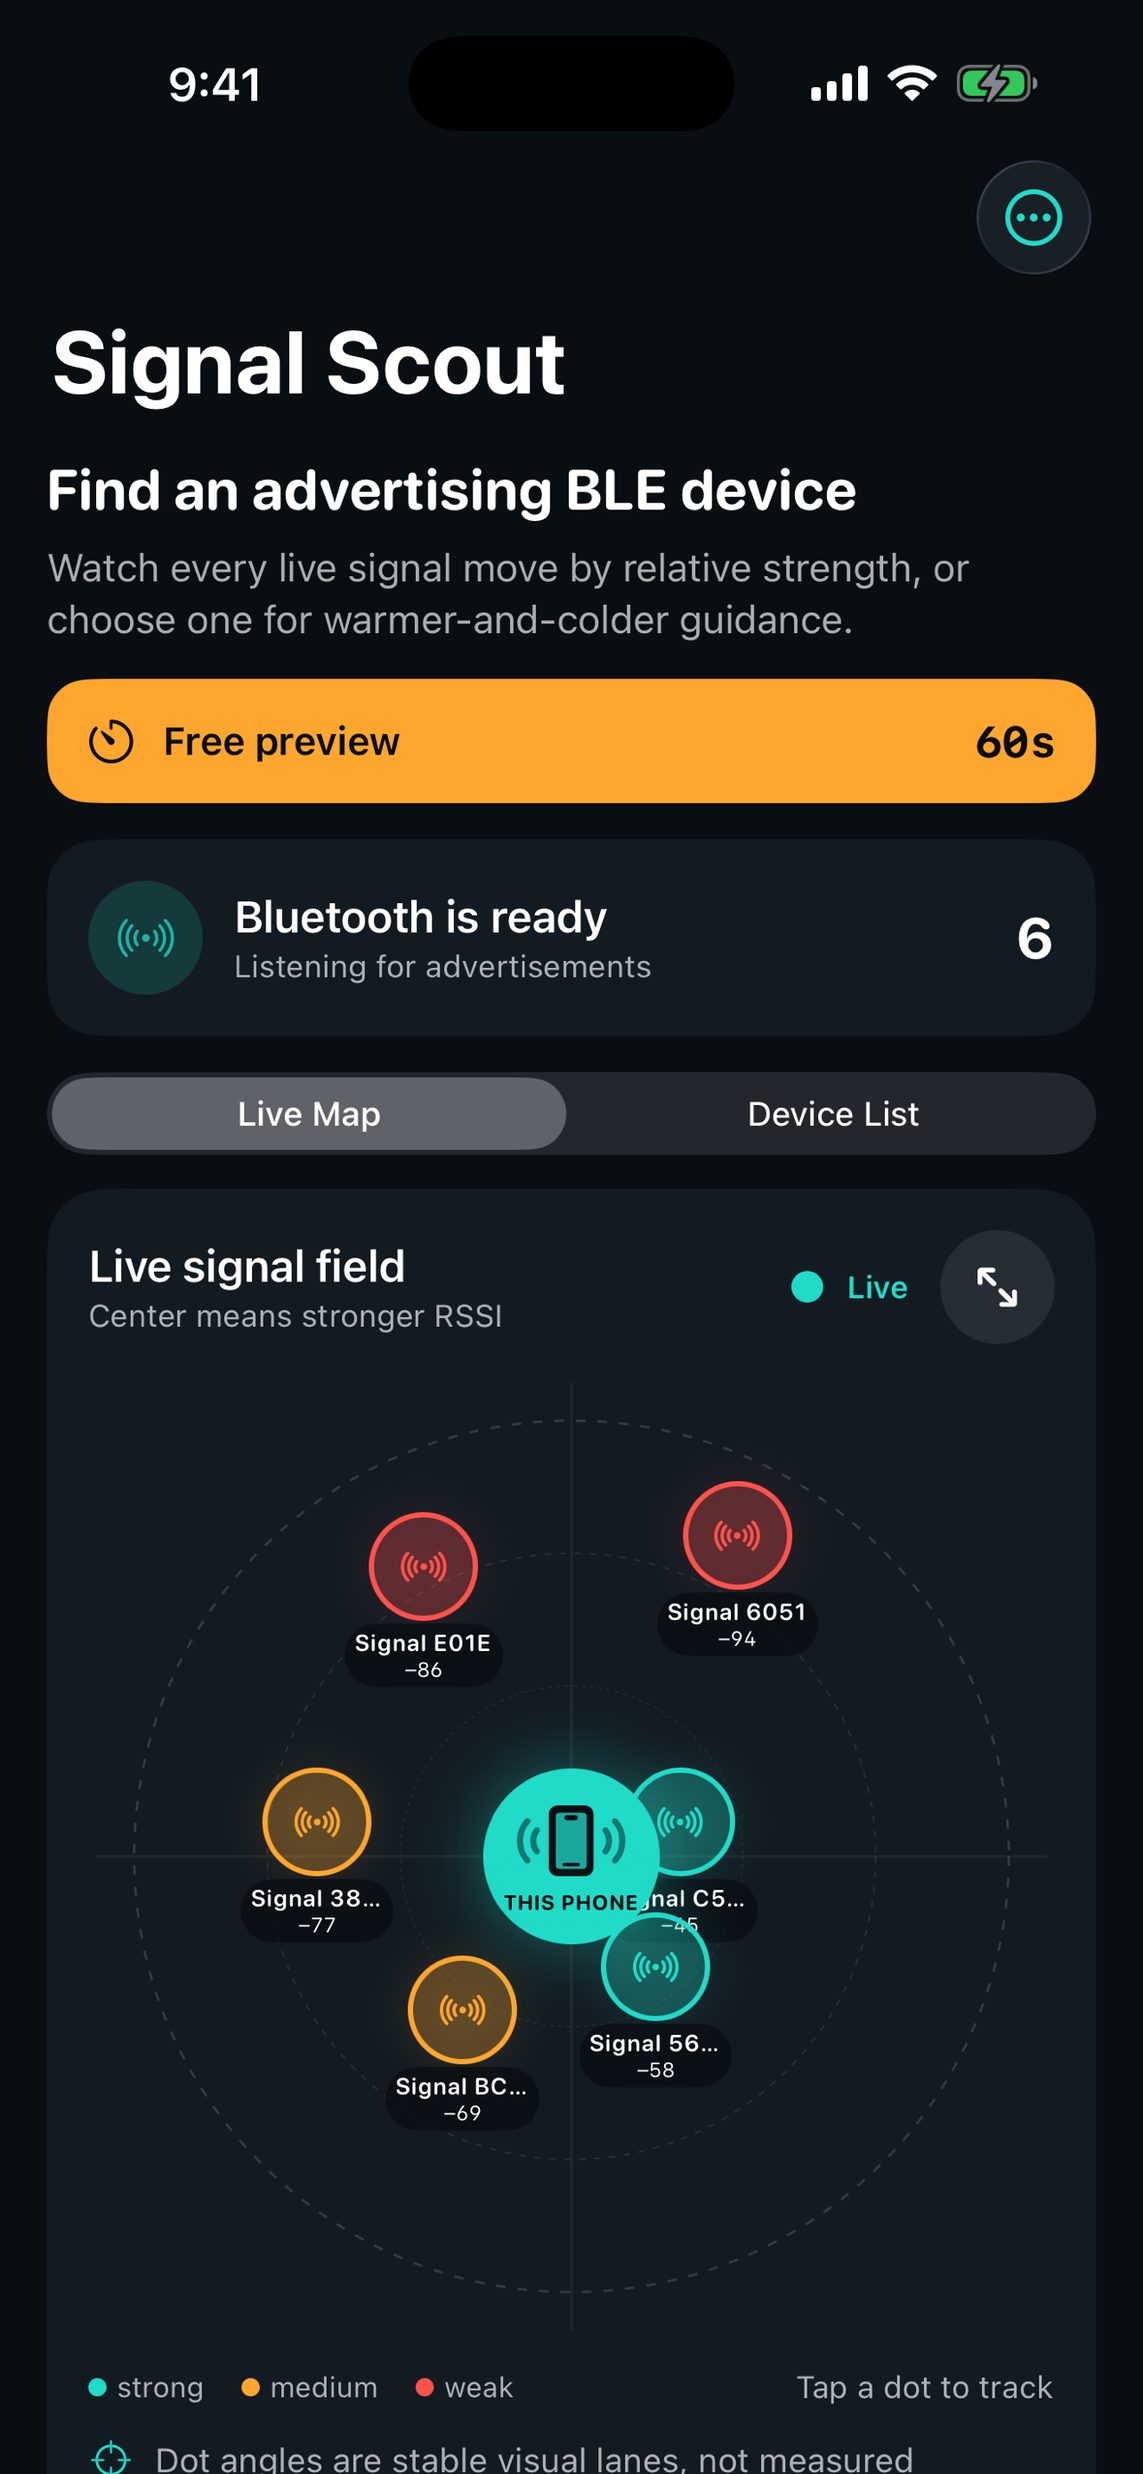
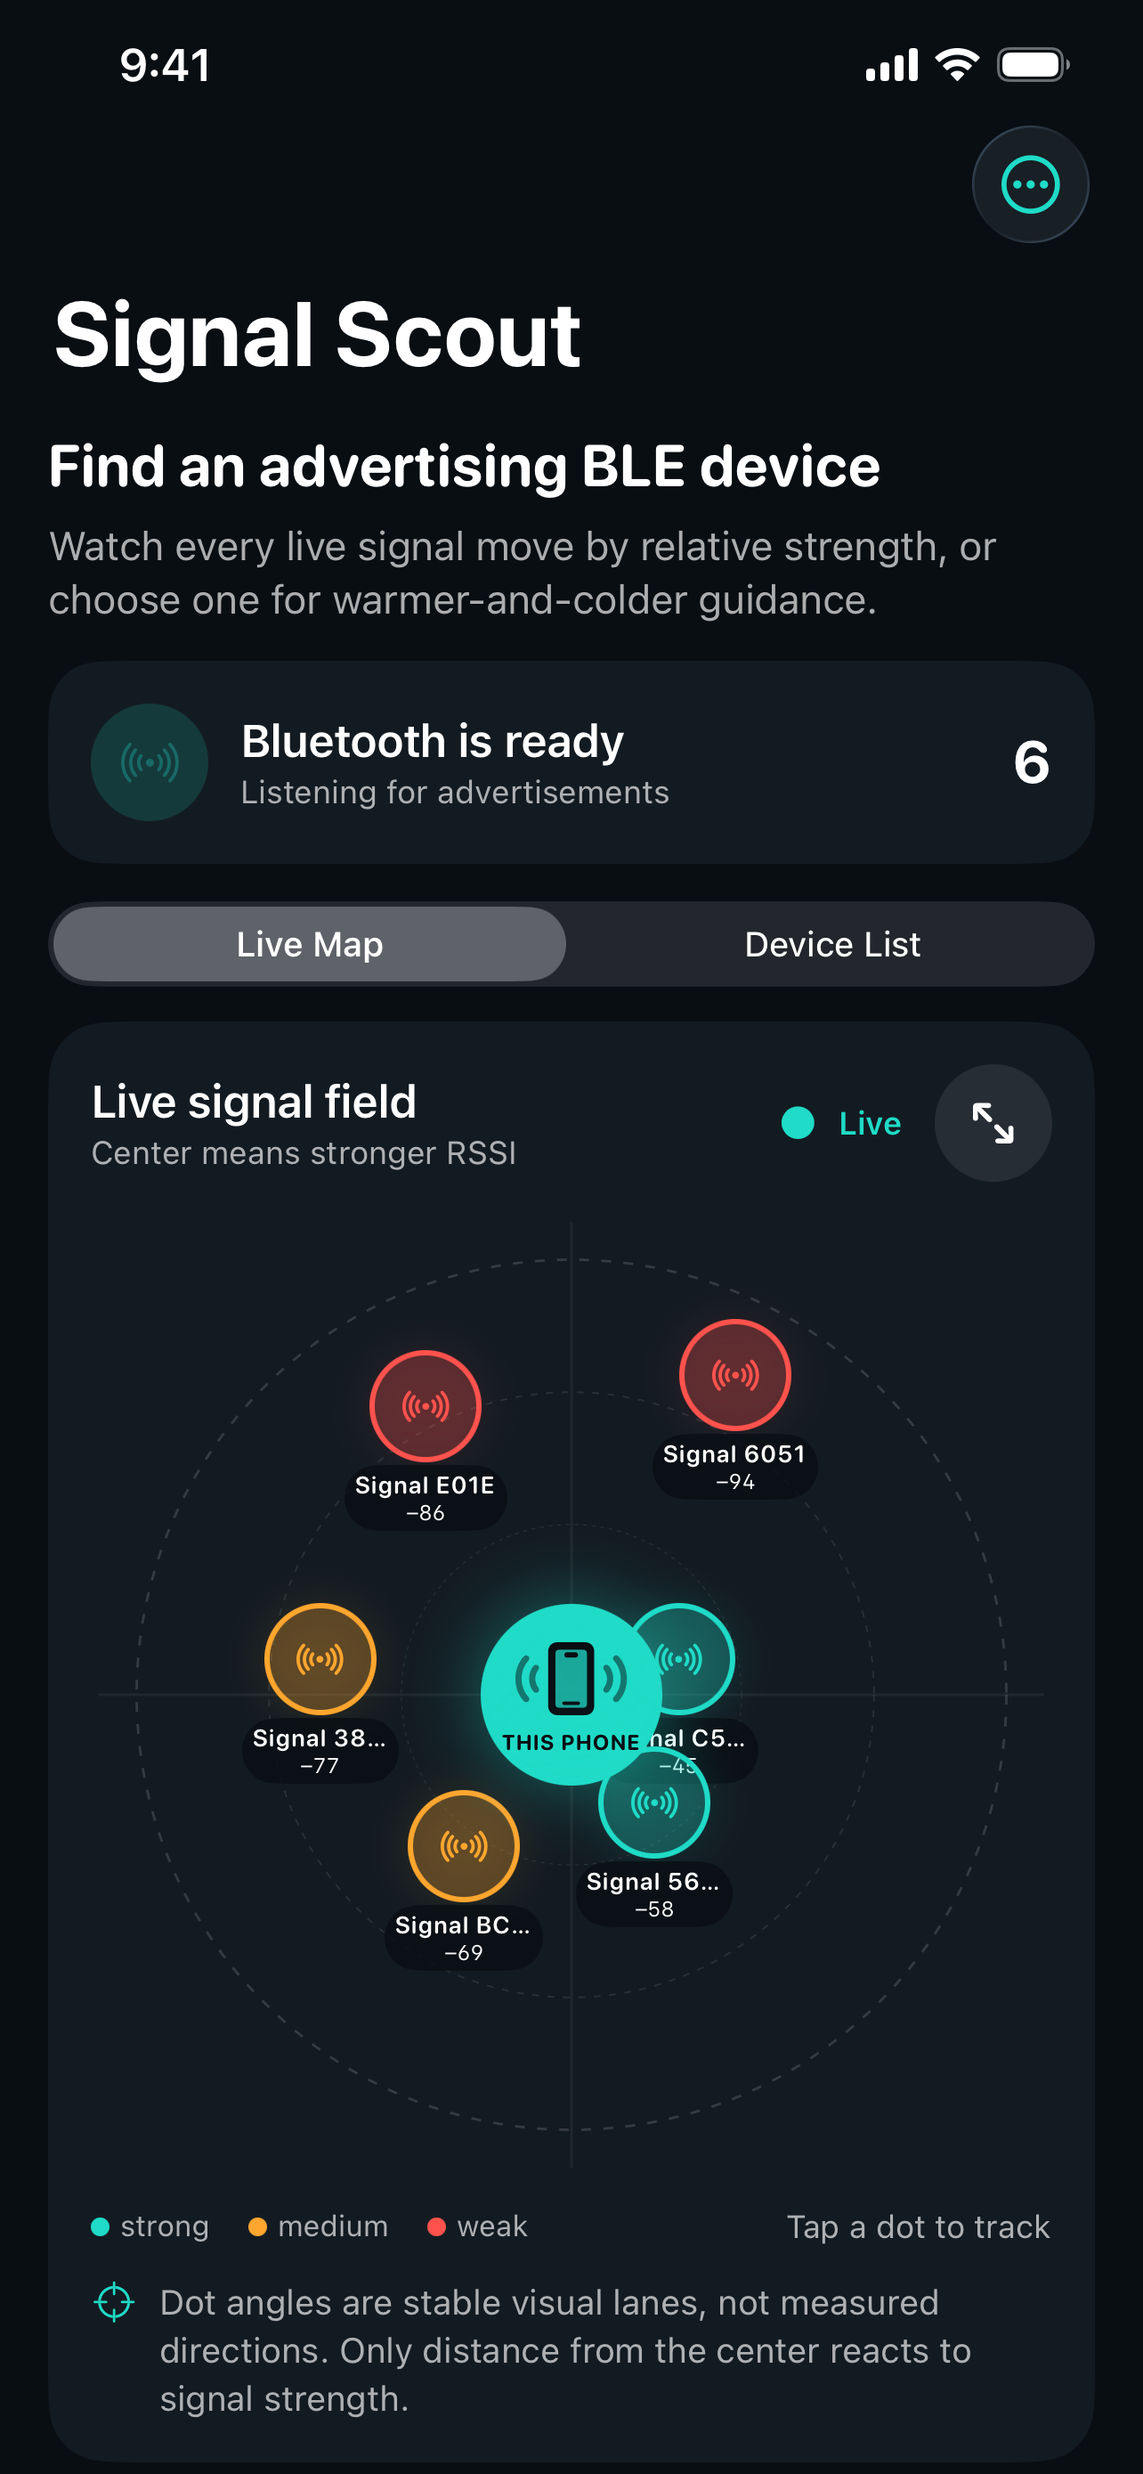
Verify build 5 and refresh free-release screenshots

diff --git a/Web/privacy.html b/Web/privacy.html
@@ -12,7 +12,7 @@
     <a class="back" href="index.html">← Signal Scout</a>
     <p class="eyebrow">PRIVACY POLICY</p>
     <h1>Private by design.</h1>
-    <p class="updated">Privacy policy for version 1.3 (5)</p>
+    <p class="updated">Privacy policy for version 1.3 (5) · Updated October 5, 2026</p>
 
     <h2>Summary</h2>
     <p>Signal Scout does not collect, transmit, sell, or share personal data. Bluetooth scanning and signal analysis happen on your device. The app has no developer-operated server, account system, analytics SDK, advertising SDK, or location code.</p>

diff --git a/scripts/check_free_release.py b/scripts/check_free_release.py
@@ -107,8 +107,15 @@ class FreeReleaseSourceTests(unittest.TestCase):
         self.assertEqual(manifest["NSPrivacyAccessedAPITypes"], [])
 
     def test_xml_and_json_files_parse(self):
-        for extension in ("*.plist", "*.xcprivacy", "*.xcscheme", "*.xcworkspacedata"):
-            for path in ROOT.rglob(extension):
+        # Check source configuration, excluding generated apps and Xcode evidence.
+        # Xcode outputs binary plists, which are valid plists but are not XML.
+        project = ROOT / "SignalScout.xcodeproj"
+        plist_paths = list((ROOT / "AppStore").glob("*.plist")) + list(APP.rglob("*.xcprivacy"))
+        for path in plist_paths:
+            with self.subTest(path=path.relative_to(ROOT)):
+                plistlib.loads(path.read_bytes())
+        for extension in ("*.xcscheme", "*.xcworkspacedata"):
+            for path in project.rglob(extension):
                 with self.subTest(path=path.relative_to(ROOT)):
                     ET.parse(path)
         for path in (APP / "Assets.xcassets").rglob("*.json"):

diff --git a/AppStore/VERIFICATION.md b/AppStore/VERIFICATION.md
@@ -1,20 +1,45 @@
-# Signal Scout 1.3 (5) verification status
+# Signal Scout 1.3 (5) verification
 
-Prepared October 3, 2026 from main commit `3c5272c5404f944b9f7bcb0bfae1d7c510d8b306`. The new build number is 5; marketing version remains 1.3. This is a source patch, not a compiled or uploaded binary.
+Verified October 5, 2026 on the connected Mac with Xcode 26.5 (17F42), the iOS 26.5 SDK, and a dedicated iPhone 17 Pro Max simulator. The application source compiled was commit `d11b0961e1007f612027f9c97891aed936b5326f`, based on main `3c5272c5404f944b9f7bcb0bfae1d7c510d8b306`. Subsequent verification, metadata, screenshot, and source-check changes do not change the application Swift source. The original checkout at `/Users/nicholas/Projects/SignalScout` remains clean at `e236eeb`.
 
-## Current free-release checks
+## Passed checks
 
-- `python3 scripts/check_free_release.py`: 14 portable source-contract checks passed on Linux, covering direct launch, absent StoreKit/paywall/preview code, version consistency, retained support/privacy/terms links, scanner initialization, anonymous-device constraints, privacy manifest, XML/JSON parsing, project source references, retained test references, and local website links/contact copy.
-- Source inspection confirms no payment or entitlement prerequisite. An old preview timestamp is no longer read or written and cannot control access.
-- BluetoothScanner, SignalAnalysis, and SignalMapLayout are unchanged from the base commit. The ten existing signal/map/privacy XCTest cases remain; the two obsolete preview-clock tests were removed.
-- The privacy manifest no longer declares the removed UserDefaults access.
-- No screenshot PNG files have been changed or recaptured.
+- Generic iOS Release build: **BUILD SUCCEEDED**.
+- Xcode Release analysis: **ANALYZE SUCCEEDED**. No source diagnostics were reported; the emitted warning concerned unused App Intents metadata extraction.
+- SignalScout XCTest: **10 tests passed, 0 failures**. Evidence: `release-evidence/SignalScout-build5-tests.xcresult` and `release-evidence/xctest.log`.
+- Isolated Xcode UI test harness: **2 tests passed, 0 failures**. Evidence: `release-evidence/SignalScout-build5-ui-tests.xcresult`, `release-evidence/ui-tests.log`, and its seven exported attachments.
+- The first UI test launched without DEBUG simulated BLE data, supplying the historical preview key as a launch argument. The scanner remained available after 65 seconds, background/foreground, termination, and relaunch. This does not establish a physical-device upgrade from an earlier installed binary.
+- The second UI test used existing DEBUG simulated BLE fixtures to verify repeated full-screen map opening/closing, zoom/fit controls, Support/Privacy/Terms menu controls, seeded tracking, and return navigation. It does not verify live BLE reception or opening external links on a physical device.
+- Signed Release archive and App Store IPA export succeeded. Both passed `codesign --verify --deep --strict`.
+- Archive identity: `com.nicholasvandervelden.SignalScout`, version **1.3**, build **5**, arm64, device family **1**, minimum iOS **17.0**.
+- The exported IPA uses the existing Cloud Managed Apple Distribution certificate for team `YJTLRBVNSM` and the existing SignalScout App Store provisioning profile, with `get-task-allow = false`. No new certificate, profile, or account access was requested.
[1 lines of base64/hex data omitted]
+- Release binary audit found no StoreKit linkage, removed subscription types, old paywall/preview labels or date key, or DEBUG screenshot launch flags. The app plist reports `ITSAppUsesNonExemptEncryption = false`; this is a build-setting observation, not a new legal declaration.
+- `python3 scripts/check_free_release.py`: **14 checks passed**. Configuration parsing now checks source configuration and accepts valid binary/XML plists without accidentally treating generated Xcode bundles as source XML.
+- BluetoothScanner, SignalAnalysis, and SignalMapLayout remain unchanged from the free-release preparation base. The free source no longer reads or writes UserDefaults or a preview timestamp and has no payment or entitlement prerequisite.
+- All six product screenshots were replaced and visually inspected: three native 1320-by-2868 UI-test captures from the iPhone 17 Pro Max simulator and three native 1284-by-2778 captures from the iPhone 13 Pro Max simulator. Both run iOS 26.5 and use the existing DEBUG simulated BLE fixtures. `Screenshots/BUILD5_PROVENANCE.json` records their source, dimensions, and hashes. The old subscription-review image remains historical and is not part of the free release.
 
-## Not yet run for build 5
+## Recovered local build issue
 
-The Linux preparation environment has neither Swift nor Xcode. No iOS compilation, XCTest execution, Xcode analysis, simulator UI test, physical-device BLE test, archive, code-signature validation, Release-binary inspection, upload, or Apple processing has been performed for build 5. The required latest-OS physical-device recording is also pending. Follow `SUBMISSION_CHECKLIST.md` before submitting.
+Archiving in the synced Documents folder failed because Finder information was attached to the generated app bundle. Moving DerivedData and archive output to `/tmp` resolved the code-signing failure. The successful archive is `/tmp/SignalScout-1.3-5-20261005.xcarchive`; the preserved copy is `release-evidence/SignalScout-1.3-5.xcarchive.zip`. This did not require changing signing access or the app source.
 
-The previous build's results below are preserved only as historical evidence. They do not validate build 5 and describe subscription behavior that has now been removed from source. Apple rejected build 4 on September 15, 2026 and requested a new binary.
+## Upload outcome: not yet confirmed
+
+The October 5 Xcode upload attempt first logged `CDWebService Code=1085: No provider associated with App Store Connect user` during the store-configuration lookup. The uploader continued afterward, received successful Apple API responses, and reached **Uploading to App Store Connect at 19:35 UTC**. The delivery log then sent an `uploaded: true` file notification; no final build receipt or processing confirmation appears in the retained logs.
+
+After connection recovery at 19:42 UTC, no upload process was running. No duplicate upload was started. The warning alone is not proof of final upload failure. Check App Store Connect's build list and processing status before retrying. The separately exported IPA hash above identifies that deliverable, not an unconfirmed server-side build. Evidence: `release-evidence/upload.log` and `release-evidence/upload-diagnostic.json`.
+
+## Remaining release gates
+
+- Browser control was restored using a fresh tab in the Nick Chrome profile. App Store Connect still requires direct password/passkey and any two-factor sign-in for `nickvan23@gmail.com`. Current review messages, agreements, app availability, metadata, and build association have not yet been re-read.
+- Replace App Store Connect's description, review notes, and product screenshots with the prepared free-build content after authentication; confirm the subscription is excluded and the correct processed build is selected.
+- All six replacement screenshots are prepared in source; their App Store Connect attachment is pending authentication. No simulator capture is represented as the requested physical-device recording.
+- The paired physical iPhone 17 Pro Max runs **iOS 26.6.1 (23G83)** with Developer Mode enabled. An October 5 `devicectl` app query confirmed that the existing installation is version **1.2 (3)**. That installation was preserved. No new installation, real BLE test, actual upgrade from an expired-preview installation, or recording has occurred in this attempt.
+- [Apple's current release list](https://support.apple.com/en-us/100100), checked October 5, lists **iOS 27.0.1** as latest. The previously recorded review request calls for a real-device demonstration on the latest public OS.
+- Physical-device Bluetooth permissions, denied/off/interrupted states, live signal reception while moving, extended navigation, external links, and upgrade behavior remain to be tested and recorded honestly.
+- No review submission, legal agreement acceptance, compliance answer, paid commitment, credential creation, or account-access change occurred. Follow `SUBMISSION_CHECKLIST.md` before submission.
+
+The results below are preserved as historical evidence for rejected build 4, not proof of build 5's removed subscription behavior.
 
 ---
 

diff --git a/AppStore/SUBMISSION_CHECKLIST.md b/AppStore/SUBMISSION_CHECKLIST.md
@@ -33,15 +33,21 @@ The Paid Apps Agreement remains Pending User Info (banking and U.S. tax informat
 
 ## Required Mac verification and new binary
 
-- [ ] Regenerate with XcodeGen if used; verify build 5 in both the project and archive.
-- [ ] Run the SignalScout scheme's ten XCTest cases on an available iPhone simulator.
-- [ ] Build and analyze the Release configuration without screenshot flags.
+- [x] Verify build 5 in the existing project and signed archive (October 5). No production project regeneration was needed.
+- [x] Run the SignalScout scheme's ten XCTest cases on an available iPhone simulator (October 5: 10 passed, 0 failures).
+- [x] Build and analyze the Release configuration without screenshot flags (October 5: both passed; Release binary audit passed).
 - [ ] Check cold launch, relaunch, foreground/background transitions, and an upgrade over an expired-preview installation. No purchase, countdown, or lock screen should appear.
 - [ ] Use the scanner, device list, focused tracking, and full-screen map for longer than 60 seconds; repeat opening, closing, pan, zoom, pause/resume, select/back, reset trend, and clear inactive devices.
 - [ ] Verify Support, Privacy Policy, and Terms of Use links from Scanner options, including returning to the app.
 - [ ] Verify Bluetooth denied, powered-off, unavailable, empty, and interrupted states; restoring Bluetooth permission should allow scanning.
-- [ ] Archive/sign version 1.3 (5), verify identity and signature, and audit the Release binary for absent StoreKit/paywall/preview and screenshot-only fixtures.
+- [x] Archive/sign version 1.3 (5), verify identity and signature, and audit the Release binary for absent StoreKit/paywall/preview and screenshot-only fixtures (October 5: passed; App Store IPA exported).
 - [ ] Upload the new binary and wait for processing. Never reuse the rejected 1.3 (4) IPA.
+
+## Simulator verification completed October 5
+
+Two isolated Xcode UI tests passed. Normal launch remained accessible beyond 60 seconds with the legacy preview key supplied as a launch argument, after background/foreground, and after termination/relaunch. A separate test using DEBUG simulated BLE verified repeated full-screen map navigation, zoom/fit controls, seeded tracking/return, and Support/Privacy/Terms controls. Neither test establishes live BLE reception, physical-device upgrade behavior, or the requested recording.
+
+The existing upload progressed beyond the Code 1085 configuration warning and reached Apple delivery at 19:35 UTC, but its final receipt is unconfirmed and no process remained after recovery. Check the build list before any upload retry. See `VERIFICATION.md`.
 
 ## Physical-device demonstration
 
@@ -53,10 +59,10 @@ The Paid Apps Agreement remains Pending User Info (banking and U.S. tax informat
 
 ## Screenshot replacement
 
-- Recapture the live field and expanded full-screen map from the new build: `Screenshots/01-live-signal-field.png`, `Screenshots/02-full-screen-map.png`, and their `Screenshots/65/` size variants. The corresponding old UI contained preview/countdown presentation.
-- Recapture or visually revalidate `Screenshots/03-warmer-guidance.png` and its `Screenshots/65/` variant against build 5 before reuse. Tracking behavior is unchanged, but the complete new screenshot set must accurately represent this release.
+- [x] Replace the live field and expanded full-screen map from build 5: `Screenshots/01-live-signal-field.png`, `Screenshots/02-full-screen-map.png`, and their native `Screenshots/65/` size variants. All four were visually inspected and show no preview/countdown presentation.
+- [x] Recapture and visually inspect `Screenshots/03-warmer-guidance.png` and its native `Screenshots/65/` variant from build 5.
 - Do not attach `Screenshots/04-subscription-review.png` to this free release. Preserve it as historical evidence only.
-- Existing PNG files have not been replaced by this source change; no screenshots or device recording were fabricated.
+- [ ] Upload the six replacement product screenshots to App Store Connect and verify their order and previews. Native dimensions and SHA-256 hashes are recorded in `Screenshots/BUILD5_PROVENANCE.json`. These are simulator captures using existing DEBUG BLE fixtures; the requested physical-device demonstration remains separate and pending.
 
 ## Historical subscription record: preserve, do not submit
 

diff --git a/AppStore/metadata.md b/AppStore/metadata.md
@@ -2,7 +2,7 @@
 
 ## Release state
 
-Prepared free-access release: version 1.3, build 5. Source changes are prepared; build 5 is not yet compiled, tested on iOS, uploaded, or selected. Apple rejected build 4 on September 15, 2026 and requested a new binary. Do not submit the old binary with these new free-access claims.
+Free-access release: version 1.3, build 5. The Release build, analysis, ten XCTest cases, two simulator UI tests, signed archive, and App Store IPA export passed on October 5, 2026. An upload reached Apple delivery, but final receipt and processing remain unconfirmed; build selection and review submission are pending. Apple rejected build 4 on September 15, 2026 and requested a new binary. Do not submit the old binary with these new free-access claims.
 
 ## Identity
 
@@ -66,9 +66,9 @@ All signal-scanning, map, and tracking features are now available without a subs
 
 The haptics wording is intentional: `BluetoothScanner.provideFeedback(for:)` triggers haptic feedback on warmer/colder transitions. The source has no in-app haptics toggle, so the description must not call it optional.
 
-## App Review notes draft: pending actual build and recording
+## App Review notes draft: pending build association and real-device recording
 
-Prepared free-access resubmission: version 1.3, build 5. This draft describes the prepared source changes. Build 5 has not yet been compiled, tested on a device, archived, uploaded, or selected for review. Do not use the rejected build 4 to evaluate the free-access changes.
+Free-access resubmission: version 1.3, build 5. The app removes paid access and the timed preview; the historical subscription is excluded from this release. The build, simulator tests, archive, and export passed. Final upload receipt, processing, build association, and the requested real-device recording must be verified before these notes are submitted. Do not use the rejected build 4 to evaluate the free-access changes.
 
 1. Physical-device recording
 The requested physical-device recording has not yet been supplied. Before resubmission, provide a recording on a real iPhone running the latest public iOS, beginning at normal app launch and showing the complete flow below. Include the actual device model, OS version, and build number. The app has no accounts or user-generated content. The prepared free build has no paid access, purchase, restore, subscription, or time limit.
